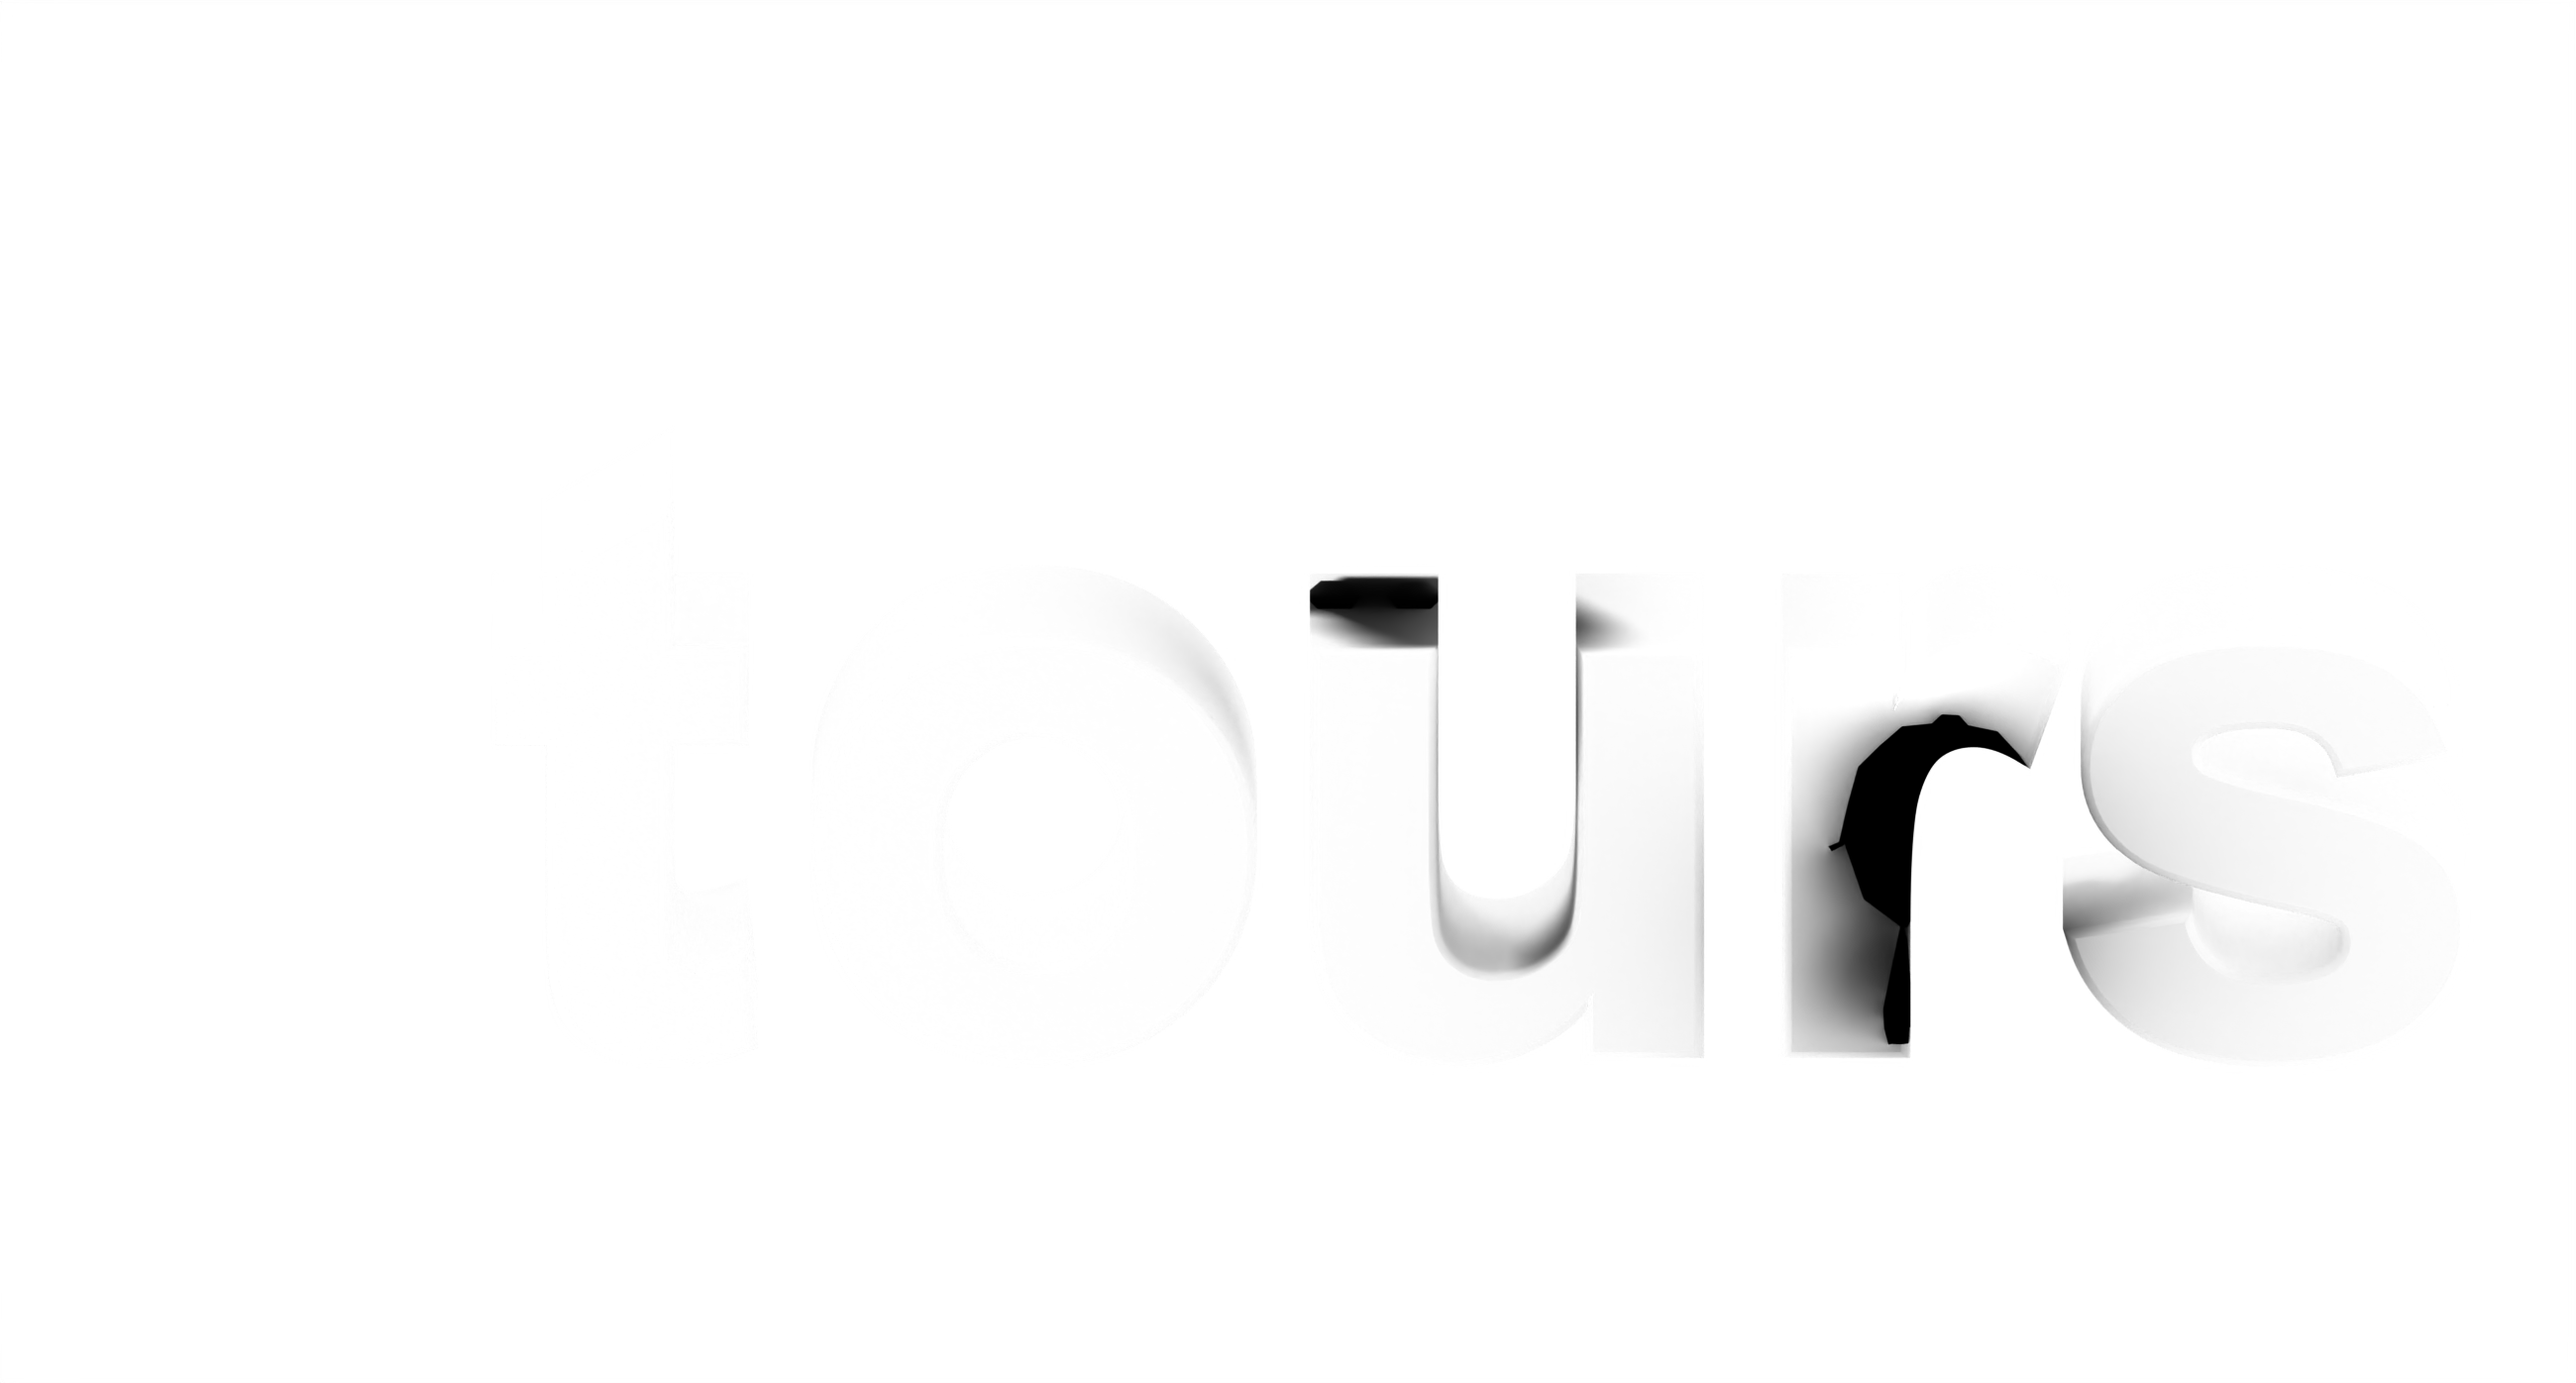
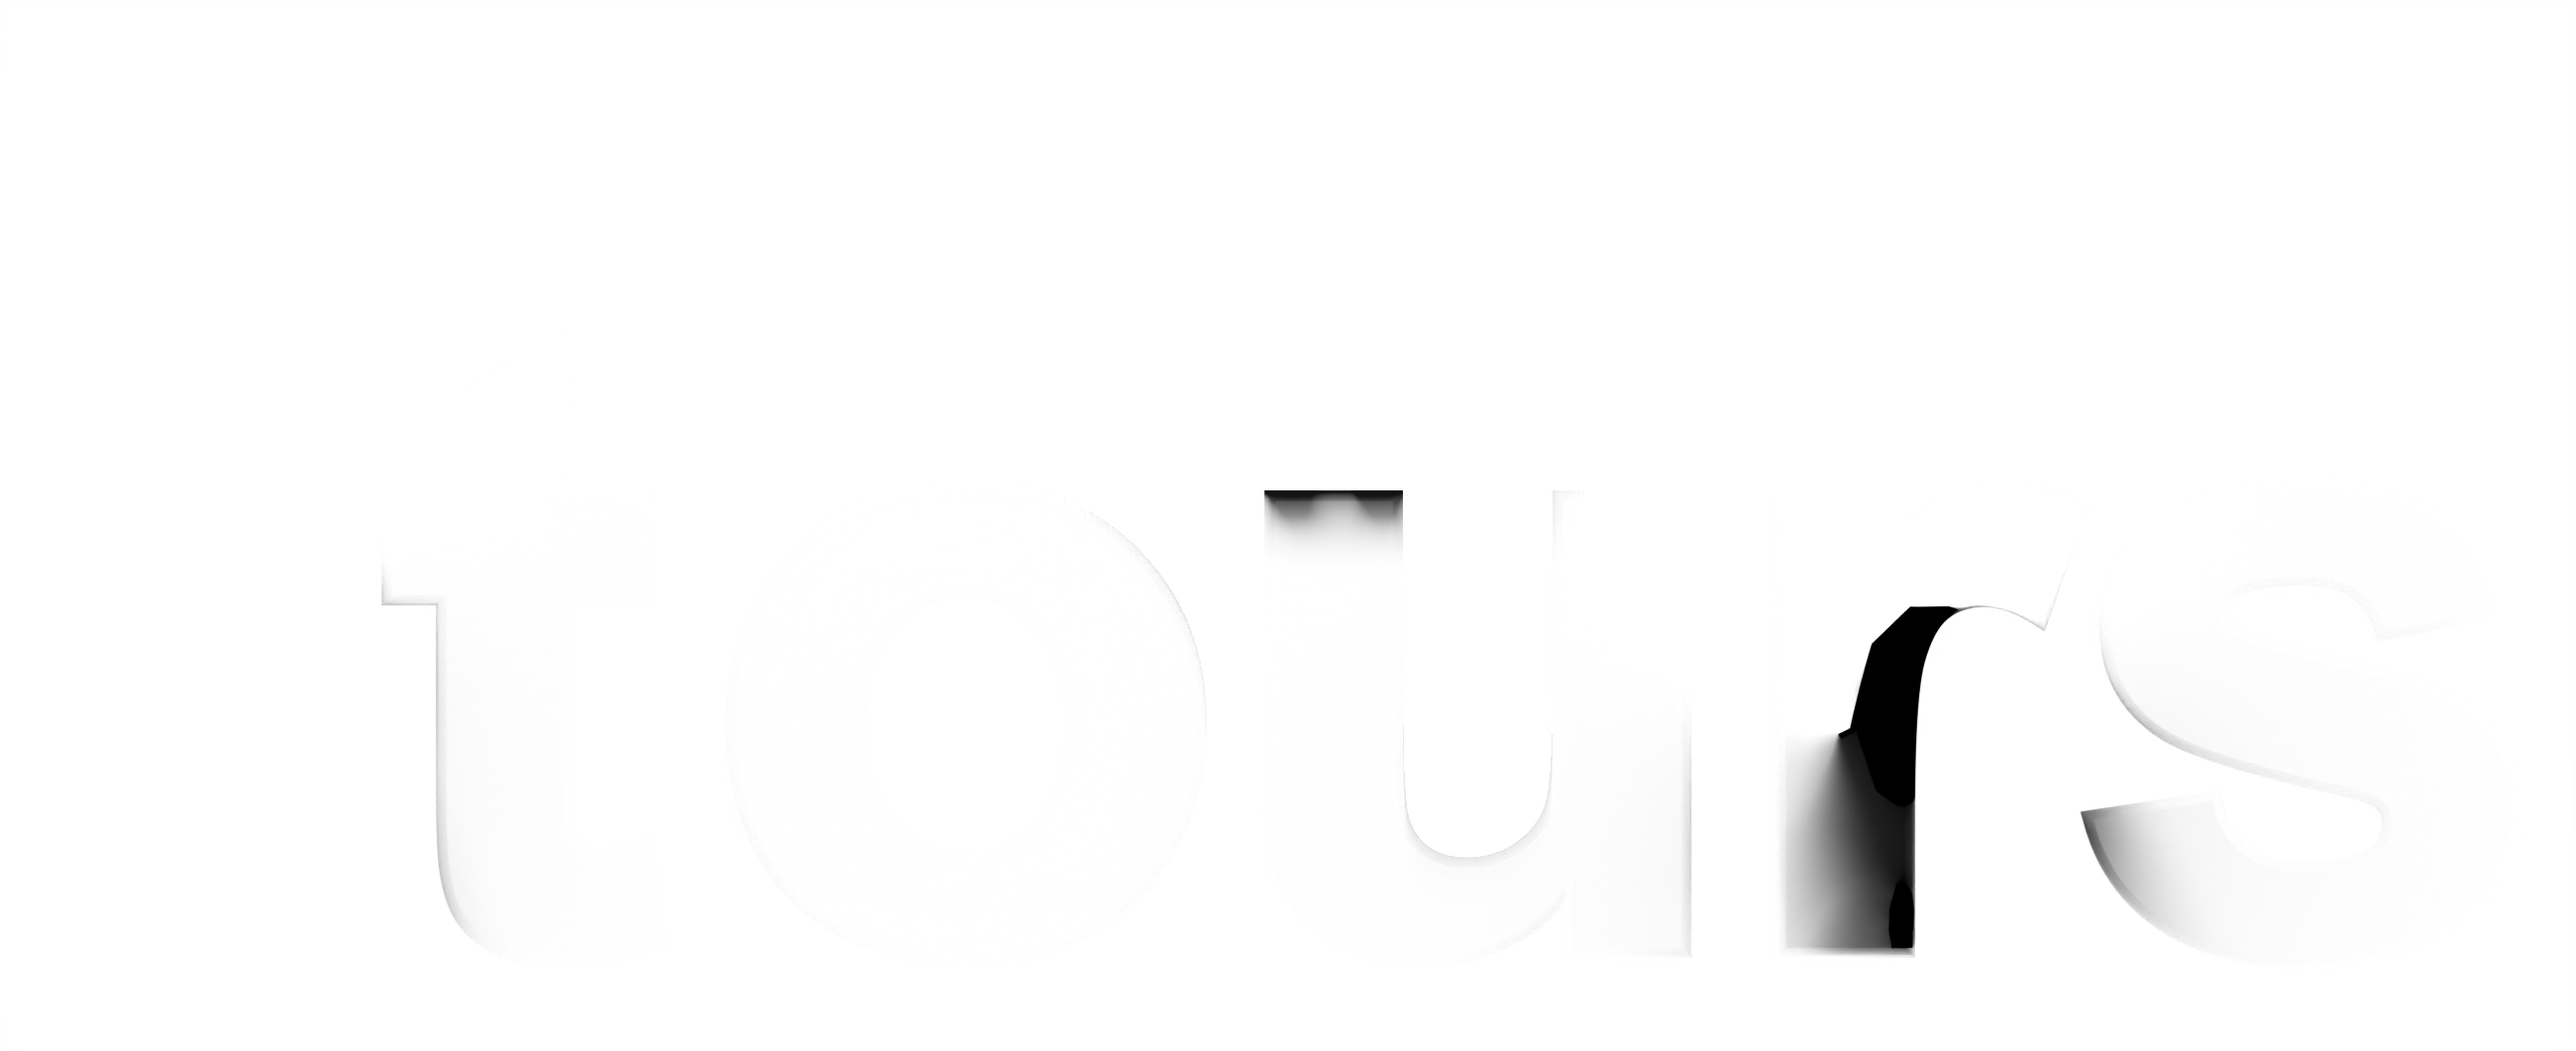
Tours: 3D Blender type with three construction moles, zoom-out intro
- Hero is now a Blender render (3D "tours" type, real shadows, hammer /
  supervisor / smoker moles as 3-frame loops), layered over the hidden h1
- Intro starts tight on the "under construction" tape, holds 0.9s, snaps out
- Word centred on its ink; phone layout with corner tape across the top
- Cache-busting ?v= tags on the art layers; old mole images removed

diff --git a/source/tours/index.html b/source/tours/index.html
@@ -1,6 +1,6 @@
 <!doctype html>
 <html lang="en" data-theme="dark"><head><meta charset="utf-8"><meta name="viewport" content="width=device-width,initial-scale=1"><meta name="theme-color" content="#0c101b"><title>Tours — DeepSpot</title><meta name="description" content="Tours. Under construction. Discover the obscure, the weird, and the wonderful with DeepSpot.">
 <script>try{document.documentElement.dataset.theme=new URLSearchParams(location.search).get('theme')||localStorage.getItem('deepspot-theme')||'dark';}catch{}</script>
-<link rel="icon" href="/site/app-icon.svg" type="image/svg+xml"><link rel="manifest" href="/manifest.webmanifest"><link rel="stylesheet" href="/site-cta.css?v=audit1"><link rel="stylesheet" href="/panel-colors.css?v=6"><link rel="stylesheet" href="/browse/browse.css"><link rel="stylesheet" href="/profile/links.css"><link rel="stylesheet" href="/site/pages.css"><link rel="stylesheet" href="/site/finishing.css"><link rel="stylesheet" href="/tours/tours.css?v=art2">
-<script src="/panel-colors.js?v=2"></script><script defer src="/site-cta.js?v=tours1"></script><script defer src="/site/navigation.js"></script><script defer src="/site/install.js"></script><script type="module" src="/site/pages.mjs"></script><link rel="stylesheet" href="/site/account-nav.css"><link rel="stylesheet" href="/site/refinements.css?v=5"><meta property="og:site_name" content="DeepSpot"><meta property="og:type" content="website"><meta property="og:title" content="Tours — DeepSpot"><meta property="og:description" content="Tours. Under construction. Discover the obscure, the weird, and the wonderful with DeepSpot."><meta property="og:image" content="/og-image.jpg"><meta property="og:image:width" content="1200"><meta property="og:image:height" content="630"><meta name="twitter:card" content="summary_large_image"><meta name="twitter:title" content="Tours — DeepSpot"><meta name="twitter:description" content="Tours. Under construction. Discover the obscure, the weird, and the wonderful with DeepSpot."><meta name="twitter:image" content="/og-image.jpg"></head>
+<link rel="icon" href="/site/app-icon.svg" type="image/svg+xml"><link rel="manifest" href="/manifest.webmanifest"><link rel="stylesheet" href="/site-cta.css?v=audit1"><link rel="stylesheet" href="/panel-colors.css?v=6"><link rel="stylesheet" href="/browse/browse.css"><link rel="stylesheet" href="/profile/links.css"><link rel="stylesheet" href="/site/pages.css"><link rel="stylesheet" href="/site/finishing.css"><link rel="stylesheet" href="/tours/tours.css?v=art18">
+<script src="/panel-colors.js?v=2"></script><script defer src="/site-cta.js?v=tours1"></script><script defer src="/site/navigation.js"></script><script defer src="/site/install.js"></script><script type="module" src="/site/pages.mjs?v=art17"></script><link rel="stylesheet" href="/site/account-nav.css"><link rel="stylesheet" href="/site/refinements.css?v=5"><meta property="og:site_name" content="DeepSpot"><meta property="og:type" content="website"><meta property="og:title" content="Tours — DeepSpot"><meta property="og:description" content="Tours. Under construction. Discover the obscure, the weird, and the wonderful with DeepSpot."><meta property="og:image" content="/og-image.jpg"><meta property="og:image:width" content="1200"><meta property="og:image:height" content="630"><meta name="twitter:card" content="summary_large_image"><meta name="twitter:title" content="Tours — DeepSpot"><meta name="twitter:description" content="Tours. Under construction. Discover the obscure, the weird, and the wonderful with DeepSpot."><meta name="twitter:image" content="/og-image.jpg"></head>
 <body data-page="tours"><a class="skip-link" href="#page-content">skip to content</a><ds-site-header></ds-site-header><main class="ds-page" id="page-content" tabindex="-1"><p class="ds-loading" role="status">Loading tours…</p></main><deepspot-cta></deepspot-cta><noscript><p>Please enable JavaScript to explore this page, or <a href="https://www.deepspot.io/">visit DeepSpot</a>.</p></noscript></body></html>

diff --git a/source/tours/tours.css b/source/tours/tours.css
@@ -49,8 +49,22 @@ html[data-theme=light] .tr-art-shadow{opacity:.55}
 .tr-cta .ds-button:hover{background:#13293a}
 
 @media(max-width:700px){.tr-f-grid{grid-template-columns:repeat(2,minmax(0,1fr))}}
-@media(max-width:700px),(orientation:portrait){.tr-stage .tr-title{top:26%;font-size:min(26vw,40vh)}}   /* phones and portrait tablets: the render (hammer mole left of the "t") must fit the width */
+/* phones and portrait tablets: the artwork (2.87em of content) fills ~92% of the width, sits in the upper middle;
+   corner band runs across the top, the two low bands stay under the word */
+@media(max-width:700px),(orientation:portrait){
+ .tr-stage .tr-title{top:36%;font-size:min(28vw,28vh)}   /* word centred; 28vw leaves room for the hammer mole on the left */
+ .tr-tape{--h:clamp(56px,9vh,96px)}
+ .tr-tape[data-tape=c]{width:160vw}
+}
 @media(prefers-reduced-motion:reduce){.tr-run{animation:none}}
 .tr-tape[data-tape=c]{width:120vw}
 .tr-cta .ds-button svg{width:1em;height:1em}
 .tr-base{display:inline-block;width:0;height:0;vertical-align:baseline}
+
+/* opening move: the camera starts tight on the main tape and snaps out (tours.mjs sets the origin, angle and zoom) */
+.tr-cam{position:absolute;inset:0}
+.tr-zoom .tr-cam{transform-origin:var(--ox) var(--oy);animation:tr-pull .55s cubic-bezier(.85,0,.15,1) .9s both}
+@keyframes tr-cta-in{from{opacity:0;translate:0 12px}}
+.tr-zoom~.tr-cta,.tr-stage.tr-zoom .tr-cta{animation:tr-cta-in .3s ease-out 1.3s both}
+@keyframes tr-pull{from{transform:translate(calc(50% - var(--ox)),calc(50% - var(--oy))) rotate(calc(-1 * var(--r0))) scale(var(--z0))}to{transform:none}}
+@media(prefers-reduced-motion:reduce){.tr-zoom .tr-cam{animation:none}}
